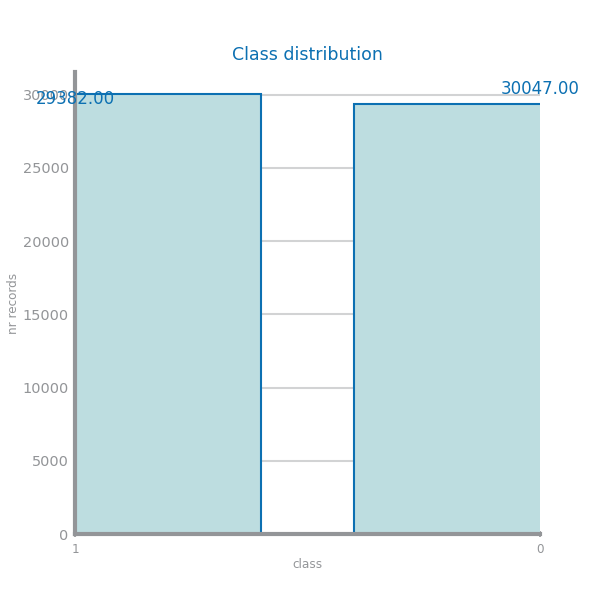
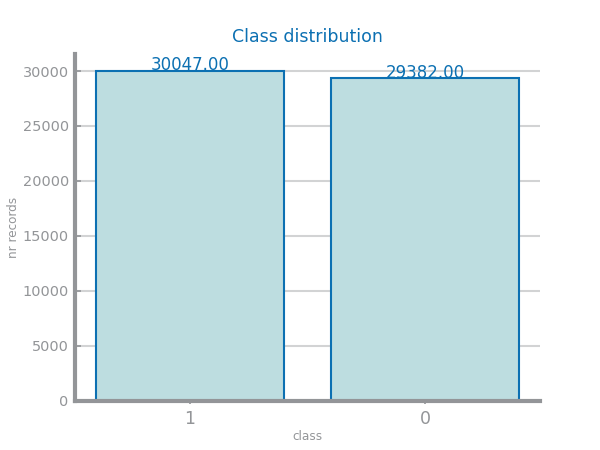
image size reduction for data profiling

diff --git a/health_domain/data_profiling/data_granularity.py b/health_domain/data_profiling/data_granularity.py
@@ -12,22 +12,22 @@ data = read_csv(filename, na_values='?')
 # Histograms for numeric variables #
 # -------------------------------- #
 
-# variables = get_variable_types(data)['Numeric']
-# if [] == variables:
-#     raise ValueError('There are no numeric variables.')
+variables = get_variable_types(data)['Numeric']
+if [] == variables:
+    raise ValueError('There are no numeric variables.')
 
-# rows = len(variables)
-# bins = (5, 10, 50)
-# cols = len(bins)
-# fig, axs = subplots(rows, cols, figsize=(cols*HEIGHT, rows*HEIGHT), squeeze=False)
-# for i in range(rows):
-#     for j in range(cols):
-#         axs[i, j].set_title('Histogram for %s %d bins'%(variables[i], bins[j]))
-#         axs[i, j].set_xlabel(variables[i])
-#         axs[i, j].set_ylabel('Nr records')
-#         axs[i, j].hist(data[variables[i]].values, bins=bins[j])
-# savefig('./images/granularity_study_numeric.png')
-# show()
+rows = len(variables)
+bins = (5, 10, 50)
+cols = len(bins)
+fig, axs = subplots(rows, cols, figsize=(cols*HEIGHT, rows*HEIGHT), squeeze=False)
+for i in range(rows):
+    for j in range(cols):
+        axs[i, j].set_title('Histogram for %s %d bins'%(variables[i], bins[j]))
+        axs[i, j].set_xlabel(variables[i])
+        axs[i, j].set_ylabel('Nr records')
+        axs[i, j].hist(data[variables[i]].values, bins=bins[j])
+savefig('./images/granularity_study_numeric.png')
+show()
 
 # --------------------------------- #
 # Histograms for symbolic variables #
@@ -158,6 +158,7 @@ def do_group_5(counts: list) -> list:
 #     i, j = (i + 1, 0) if (n + 1) % cols == 0 else (i, j + 1)
 # savefig('./images/granularity_study_symbolic.png')
 # show()
+
 group_1 = ('diag_1', 'diag_2', 'diag_3') # diagnoses group
 group_2 = ('race')
 group_3 = ('age')
@@ -169,7 +170,6 @@ if [] == symbolic_vars:
     raise ValueError("There are no symbolic variables.")
     
 rows, cols = choose_grid(len(symbolic_vars) + 7)
-
 fig, axs = subplots(rows, cols, figsize=(cols*HEIGHT*4, rows*HEIGHT*3), squeeze=False)
 i, j = 0, 0
 n_graphs = 0
@@ -248,26 +248,26 @@ for n in range(len(symbolic_vars)):
         i, j = (i + 1, 0) if (n_graphs + 1) % cols == 0 else (i, j + 1)
         n_graphs += 1
       
-savefig('./images/study1.png')
+savefig('./images/granularity_study_symbolic.png', dpi=90)
       
 # ----------------------------- #
 # Histograms for date variables #
 # ----------------------------- #
 
-# variables = get_variable_types(data)['Date']
-# if [] == variables:
-#     fig, axs = subplots(figsize=(8, 4)) 
-#     axs.set_title("No Date Variables")          # Do any Matplotlib customization you like
-# else:
-#     rows = len(variables)
-#     bins = (5, 10, 50)
-#     cols = len(bins)
-#     fig, axs = subplots(rows, cols, figsize=(cols*HEIGHT, rows*HEIGHT), squeeze=False)
-#     for i in range(rows):
-#         for j in range(cols):
-#             axs[i, j].set_title('Histogram for %s %d bins'%(variables[i], bins[j]))
-#             axs[i, j].set_xlabel(variables[i])
-#             axs[i, j].set_ylabel('Nr records')
-#             axs[i, j].hist(data[variables[i]].values, bins=bins[j])
-# savefig('./images/granularity_study_date.png')
-# show()
+variables = get_variable_types(data)['Date']
+if [] == variables:
+    fig, axs = subplots(figsize=(8, 4)) 
+    axs.set_title("No Date Variables")          # Do any Matplotlib customization you like
+else:
+    rows = len(variables)
+    bins = (5, 10, 50)
+    cols = len(bins)
+    fig, axs = subplots(rows, cols, figsize=(cols*HEIGHT, rows*HEIGHT), squeeze=False)
+    for i in range(rows):
+        for j in range(cols):
+            axs[i, j].set_title('Histogram for %s %d bins'%(variables[i], bins[j]))
+            axs[i, j].set_xlabel(variables[i])
+            axs[i, j].set_ylabel('Nr records')
+            axs[i, j].hist(data[variables[i]].values, bins=bins[j])
+savefig('./images/granularity_study_date.png')
+show()

diff --git a/climate_domain/data_profiling/data_distribution.py b/climate_domain/data_profiling/data_distribution.py
@@ -161,12 +161,13 @@ numeric_vars = get_variable_types(data)['Numeric']
 if [] == numeric_vars:
     raise ValueError('There are no numeric variables.')
 
+rows, cols = choose_grid(len(numeric_vars))
 fig, axs = subplots(rows, cols, figsize=(cols*HEIGHT, rows*HEIGHT), squeeze=False)
 i, j = 0, 0
 for n in range(len(numeric_vars)):
     histogram_with_distributions(axs[i, j], data[numeric_vars[n]].dropna(), numeric_vars[n])
     i, j = (i + 1, 0) if (n+1) % cols == 0 else (i, j + 1)
-savefig('./images/histogram_numeric_distribution.png')
+savefig('./images/histogram_numeric_distribution.png', dpi=90)
 # show()
 
 #------------------------ #
@@ -193,10 +194,7 @@ savefig('./images/histograms_symbolic.png')
 # ------------------ #
 
 class_ = data['class'].dropna()
-rows, cols = choose_grid(1)
-fig, axs = subplots(rows, cols, figsize=(cols*HEIGHT, rows*HEIGHT), squeeze=False)
-
 counts = class_.value_counts()
-bar_chart(counts.index.to_list(), counts.values, ax=axs[0, 0], title='Class distribution', xlabel='class', ylabel='nr records', percentage=False)
-
+bar_chart([str(i) for i in counts.index.to_list()], list(counts.values), title='Class distribution', xlabel='class', ylabel='nr records', percentage=False)
 savefig('./images/class_distribution.png')
+# show()

diff --git a/health_domain/data_profiling/data_distribution.py b/health_domain/data_profiling/data_distribution.py
@@ -194,7 +194,7 @@ for n in range(len(symbolic_vars)):
     else:
         bar_chart(counts.index.to_list(), counts.values, ax=axs[i, j], title='Histogram for %s' %symbolic_vars[n], xlabel=symbolic_vars[n], ylabel='nr records', percentage=False, rotation=45)
     i, j = (i + 1, 0) if (n + 1) % cols == 0 else (i, j + 1)
-savefig('./images/histograms_symbolic.png')
+savefig('./images/histograms_symbolic.png', dpi=100)
 # show()
 
 
@@ -203,10 +203,7 @@ savefig('./images/histograms_symbolic.png')
 # ------------------ #
 
 class_ = data['readmitted'].dropna()
-rows, cols = choose_grid(1)
-fig, axs = subplots(rows, cols, figsize=(cols*HEIGHT, rows*HEIGHT), squeeze=False)
-
 counts = class_.value_counts()
-bar_chart(counts.index.to_list(), counts.values, ax=axs[0, 0], title='Class distribution', xlabel='readmitted', ylabel='nr records', percentage=False)
-
+bar_chart(counts.index.to_list(), list(counts.values), title='Class distribution', xlabel='readmitted', ylabel='nr records', percentage=False)
 savefig('./images/class_distribution.png')
+# show()

diff --git a/climate_domain/data_profiling/data_sparsity.py b/climate_domain/data_profiling/data_sparsity.py
@@ -9,9 +9,9 @@ data = read_csv('../datasets/classification/drought.csv', na_values="na", sep=',
 data['date'] = to_datetime(data['date'])
 
 
-# ----------------------------------- #
-# Scatter all x all - including class #
-# ----------------------------------- #
+# # ----------------------------------- #
+# # Scatter all x all - including class #
+# # ----------------------------------- #
 
 numeric_vars = get_variable_types(data)['Numeric']
 binary_vars = get_variable_types(data)['Binary']
@@ -75,5 +75,5 @@ corr_mtx = abs(data.corr())
 fig = figure(figsize=[50, 50])
 heatmap(abs(corr_mtx), xticklabels=corr_mtx.columns, yticklabels=corr_mtx.columns, annot=True, cmap='Blues')
 title('Correlation analysis')
-savefig('./images/correlation_analysis.png')
+savefig('./images/correlation_analysis.png', dpi=80)
 # show()

diff --git a/climate_domain/data_profiling/data_granularity.py b/climate_domain/data_profiling/data_granularity.py
@@ -27,7 +27,7 @@ for i in range(rows):
         axs[i, j].set_xlabel(variables[i])
         axs[i, j].set_ylabel('Nr records')
         axs[i, j].hist(data[variables[i]].values, bins=bins[j])
-savefig('./images/granularity_study_numeric.png')
+savefig('./images/granularity_study_numeric.png', dpi=95)
 # show()
 
 
@@ -52,7 +52,6 @@ else:
             axs[i, j].set_title('Histogram for %s %d bins'%(variables[i], bins[j]))
             axs[i, j].set_xlabel(variables[i])
             axs[i, j].set_ylabel('Nr records')
-            print(data[variables[i]].values)
             axs[i, j].hist(data[variables[i]].values, bins=bins[j])
 savefig('./images/granularity_study_symbolic.png')
 # show()

diff --git a/climate_domain/data_profiling/data_dimensionality.py b/climate_domain/data_profiling/data_dimensionality.py
@@ -57,5 +57,3 @@ else:
             xlabel='variables', ylabel='nr missing values')
 savefig('./images/missing_values.png')
 # show()
-
-
